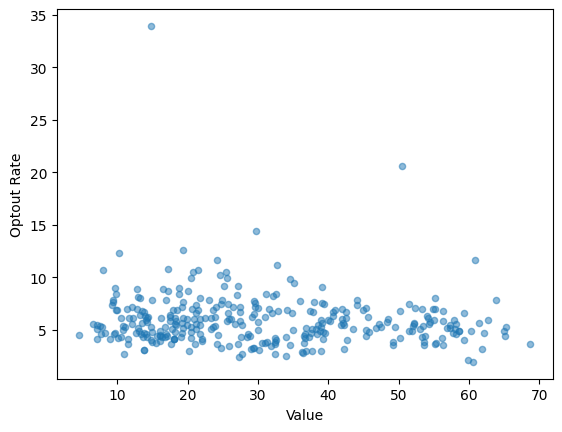
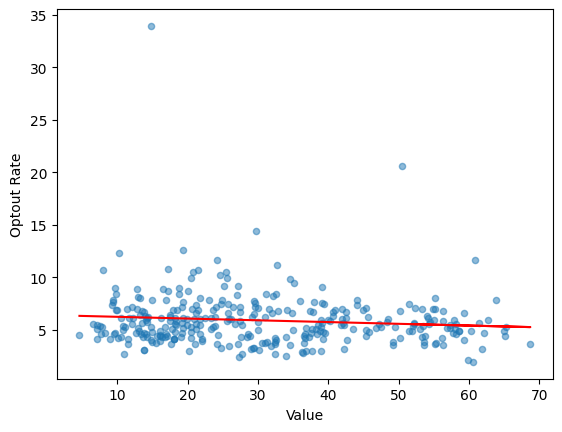
deploy: d4ca1888739ae77129a5330782bb0acb88ee6270

Changed region(s): [[0.1512, 0.7222, 0.7865, 0.7523], [0.7865, 0.7523, 0.9377, 0.7824]]

diff --git a/searchindex.js b/searchindex.js
@@ -1,1 +1,1 @@
-Search.setIndex({docnames:["CONDUCT","CONTRIBUTING","GPOptOut","README","content","intro","markdown"],envversion:{"sphinx.domains.c":2,"sphinx.domains.changeset":1,"sphinx.domains.citation":1,"sphinx.domains.cpp":5,"sphinx.domains.index":1,"sphinx.domains.javascript":2,"sphinx.domains.math":2,"sphinx.domains.python":3,"sphinx.domains.rst":2,"sphinx.domains.std":2,"sphinx.ext.intersphinx":1,"sphinxcontrib.bibtex":9,sphinx:56},filenames:["CONDUCT.md","CONTRIBUTING.md","GPOptOut.ipynb","README.md","content.md","intro.md","markdown.md"],objects:{},objnames:{},objtypes:{},terms:{"0":2,"1":0,"10":2,"2014":6,"4":0,"5":2,"50":2,"500":2,"80":2,"93553":2,"default":6,"do":[0,3,4,6],"function":6,"import":2,"public":0,"short":4,"true":2,A:3,At:6,Being:0,By:1,For:[2,3,6],If:[1,3,6],In:[0,6],It:[3,6],The:[0,1,2,5,6],There:[2,4,6],_build:3,_o:2,abid:1,about:[1,3,6],abus:0,accept:[0,6],account:0,act:0,action:[0,3],adapt:0,add:6,address:0,advanc:0,ag:0,again:6,agre:1,align:0,all:[0,3,6],all_gp_fil:2,allow:6,alpha:2,alreadi:6,also:6,alwai:1,an:[0,1,2,5],ani:[0,1,3,6],anoth:6,anyth:1,appear:0,appli:0,appoint:0,appreci:1,appropri:0,ar:[0,1,4],area:2,articl:1,associ:6,attack:0,attent:0,auditori:6,australia:6,automat:3,axessubplot:2,ban:0,behavior:0,being:6,below:1,best:[0,1],between:2,bib:6,bibliographi:6,bibtex:6,bit:1,block:6,blog:1,bodi:0,book:[5,6],both:[0,6],box:6,branch:[1,3],brian:6,brisban:6,build:6,built:[3,6],call:6,can:[1,2,3,6],ccg:2,cdc:5,cell:6,chang:1,cheshir:2,chose:3,christoph:6,ci:3,circumst:0,cite:6,citi:5,civic:6,clarifi:0,clean:3,clone:[1,3],code:[2,5],cognit:6,combin:2,command:6,comment:0,commit:[0,1],common:6,commonmark:6,commun:0,complaint:0,complex:6,comput:6,concat:2,concept:5,conda:1,confer:6,confidenti:0,consid:0,construct:0,contact:0,content:6,continu:3,contribut:[0,3],contributor:[0,1],cookiecutt:3,coop:6,copi:1,correct:0,cortex:6,could:[0,1],coven:0,cover:4,creat:[0,1,3],credit:1,critic:0,csv:2,current:3,d:[3,6],data:[3,6],de:6,decil:2,deem:0,defin:[0,6],demo:3,depend:6,deploi:3,deploy:3,depriv:2,derogatori:0,detail:[0,1],determin:0,develop:[1,3],differ:[0,6],digit:[2,6],directli:6,directori:3,disabl:0,discov:3,displai:[2,6],doc:[1,6],docstr:1,document:[3,6],doesn:6,driven:1,e:[0,1],easier:1,easili:3,ecosystem:6,edit:[0,3],electron:0,empathi:0,enhanc:1,entir:6,environ:[0,3],ethnic:0,even:1,event:0,everi:1,everyon:0,evid:6,exampl:[0,3,6],excel:3,exclud:2,executablebook:3,exist:[3,6],expand:2,expect:0,experi:0,explain:1,explan:2,explicit:0,express:0,extens:6,f:2,face:0,fair:0,faith:0,fals:2,few:4,file:[1,2,3],first:[2,6],flavor:6,focus:0,folder:2,follow:[0,6],fork:1,formbi:2,foster:0,free:0,from:[0,2],frontier:6,full:2,fulli:3,further:0,g:1,gender:0,gener:2,get:2,gh:3,github:[1,2,3],gitlab:3,given:1,good:0,gp:1,gp_depriv:2,gp_optout:[2,3],gp_output_data:2,gp_profil:2,gracefulli:0,grazuli:3,greatli:1,ha:6,halton:2,harass:0,harm:0,have:0,hdhpk14:6,heer:6,helen:2,help:[1,3],here:[1,6],holdgraf:6,holdgraf_evidence_2014:6,how:[1,2,4,5],html:3,http:3,human:6,id:2,ident:0,ignore_index:2,imageri:0,improv:5,inappropri:0,incid:0,includ:[0,1,3,6],include_ci:3,inclus:0,indic:2,individu:0,inform:[0,3,6],init:6,input:6,insert:6,insid:6,instal:[1,3],instanc:0,insult:0,integr:3,interest:0,intern:6,intro:6,investig:[0,2],io:3,ipynb:6,isnul:2,issu:[0,1],its:[0,1,6],jupyt:[3,5,6],jupytext:6,keep:1,kernel:6,kind:6,knight:6,label:2,languag:[0,6],later:2,leadership:0,left:2,left_on:2,less:6,level:0,like:[3,6],line:6,list:[1,3],littl:1,live:5,liverpool:5,ll:6,local:1,locat:3,look:[1,6],made:3,mai:0,mail:0,main:3,maintain:0,make:[0,1],mani:[4,6],markedli:6,markup:6,max_column:2,max_row:2,md:6,media:0,member:0,merg:2,metadata:6,mi:2,might:[1,5],more:[1,6],moreov:6,most:6,must:6,my:6,mydirectivenam:6,n:6,name:[1,6],narr:2,narrow:1,nation:[0,2],nb:6,ndop_sum_apr_2022_practic:2,need:2,netlifi:3,neurosci:6,nh:2,note:[1,6],notebook:6,number:2,oblig:0,offens:0,offici:[0,1],offlin:0,ohid:2,onc:[3,6],one:[2,6],onli:6,onlin:[0,3],open:[0,1,3,5],oper:1,opt:3,option:3,optout:[1,2],orient:0,other:0,otherwis:0,out:3,outlier:2,outout:3,output:6,over:2,overview:2,page:[3,6],panda:2,parent:2,part:1,particip:0,partner:5,paslei:6,path:6,pattern:6,pd:2,perman:0,permiss:0,person:0,physic:0,pip:3,pleas:[1,3],polici:0,polit:0,posit:0,possibl:1,post:[0,1],power:6,practic:2,pre:6,predict:6,print:[2,6],privat:0,profession:0,profil:2,project:[0,1,3],properli:6,propos:1,publish:[0,3],pull:[1,3],purpos:6,push:[1,3],qcut:2,quick:[2,3],r:3,race:0,ramsai:6,rank:2,rate:2,read_csv:2,readi:1,reason:0,recogn:3,recommend:3,refer:6,regard:0,regardless:0,region:5,regular:6,reject:0,rel:6,relationship:2,releas:1,religion:0,rememb:1,remov:[0,2,3],render:[3,6],repercuss:0,repo:[1,3],report:0,repositori:[2,3],repres:0,represent:0,reproduc:1,request:[1,3],requir:3,resid:5,respect:0,respond:0,rest:6,result:6,review:0,right:0,right_on:2,robert:6,rolenam:6,run:[3,6],s:[0,1,6],same:6,scatter:2,scope:1,score:2,section:4,see:[3,6],sefton:2,send:1,separ:0,serv:6,servic:3,set:[0,1],set_index:2,set_opt:2,setup:1,sexual:0,share:5,should:3,show:0,similar:6,simplest:6,site:5,size:0,slight:6,small:6,sme:5,so:[4,6],social:0,some:6,sourc:3,south:2,southport:2,space:0,span:6,specif:[0,3,6],sphinx:6,st:2,stand:6,step:[1,2],store:6,structur:6,suffix:2,support:5,syntax:6,system:1,t:6,tab:3,tag:1,take:0,team:0,templat:3,temporari:0,temporarili:0,term:1,text:6,thei:[0,1,6],thi:[0,1,2,3,4,5,6],those:6,threaten:0,through:1,time:6,tip:4,todo:2,tool:[5,6],toward:0,troll:0,troubleshoot:1,two:6,txt:3,unaccept:0,understand:5,unwelcom:0,up:[1,2],us:[0,1,2,3,5],valid:6,valu:2,variat:6,veri:6,version:[0,1,3],via:0,view:2,viewpoint:0,virtual:3,virtualenv:1,volunt:1,wa:[2,3],wai:[0,1,4],want:1,warrington:2,we:[0,3],web:1,websit:1,welcom:[0,1,3],wendi:6,what:0,when:[0,3,6],where:2,wherea:6,whether:[1,6],which:[0,6],who:0,whoever:1,wiki:0,wirral:2,within:[0,3],without:0,work:[1,6],workflow:3,would:1,write:[2,4,6],written:6,x:2,xlabel:2,y:2,ylabel:2,you:[1,3,6],your:[1,3]},titles:["Code of Conduct","Contributing","Liverpool GP Opt Out Data","GP Optout","Content in Jupyter Book","Civic Data Coop Digital Commons","Markdown Files"],titleterms:{ad:6,ar:6,attribut:0,book:[3,4],bug:1,build:3,citat:6,civic:5,code:[0,1,6],common:5,conduct:[0,1],content:4,contribut:1,contributor:3,coop:5,credit:3,data:[2,5],digit:5,direct:6,document:1,enforc:0,execut:6,featur:1,feedback:1,file:6,fix:1,get:1,gp:[2,3],host:3,implement:1,jupyt:4,liverpool:2,load:2,markdown:6,myst:6,opt:2,optout:3,our:0,out:2,pledg:0,plot:2,prototyp:5,report:1,respons:0,role:6,scope:0,sourc:2,standard:0,start:1,submit:1,technolog:5,test:5,us:6,usag:3,what:6,write:1,your:6}})
+Search.setIndex({docnames:["CONDUCT","CONTRIBUTING","GPOptOut","README","content","intro","markdown"],envversion:{"sphinx.domains.c":2,"sphinx.domains.changeset":1,"sphinx.domains.citation":1,"sphinx.domains.cpp":5,"sphinx.domains.index":1,"sphinx.domains.javascript":2,"sphinx.domains.math":2,"sphinx.domains.python":3,"sphinx.domains.rst":2,"sphinx.domains.std":2,"sphinx.ext.intersphinx":1,"sphinxcontrib.bibtex":9,sphinx:56},filenames:["CONDUCT.md","CONTRIBUTING.md","GPOptOut.ipynb","README.md","content.md","intro.md","markdown.md"],objects:{},objnames:{},objtypes:{},terms:{"0":2,"1":[0,2],"10":2,"2014":6,"4":0,"5":2,"50":2,"500":2,"6":2,"80":2,"93553":2,"default":6,"do":[0,3,4,6],"function":6,"import":2,"public":0,"short":4,"true":2,A:3,At:6,Being:0,By:1,For:[2,3,6],If:[1,3,6],In:[0,6],It:[3,6],The:[0,1,2,5,6],There:[2,4,6],_build:3,_o:2,abid:1,about:[1,3,6],abus:0,accept:[0,6],account:0,act:0,action:[0,3],adapt:0,add:6,address:0,advanc:0,ag:0,again:6,agre:1,align:0,all:[0,3,6],all_gp_fil:2,allow:6,alpha:2,alreadi:6,also:6,alwai:1,an:[0,1,2,5],ani:[0,1,3,6],anoth:6,anyth:1,appear:0,appli:0,appoint:0,appreci:1,appropri:0,ar:[0,1,4],area:2,articl:1,associ:6,attack:0,attent:0,auditori:6,australia:6,automat:3,ax:2,axessubplot:2,ban:0,behavior:0,being:6,below:1,best:[0,1],between:2,bib:6,bibliographi:6,bibtex:6,bit:1,block:6,blog:1,bodi:0,book:[5,6],both:[0,6],box:6,branch:[1,3],brian:6,brisban:6,build:6,built:[3,6],call:6,can:[1,2,3,6],ccg:2,cdc:5,cell:6,chang:1,cheshir:2,chose:3,christoph:6,ci:3,circumst:0,cite:6,citi:5,civic:6,clarifi:0,clean:3,clone:[1,3],code:[2,5],cognit:6,color:2,combin:2,command:6,comment:0,commit:[0,1],common:6,commonmark:6,commun:0,complaint:0,complex:6,comput:6,concat:2,concept:5,conda:1,confer:6,confidenti:0,consid:0,construct:0,contact:0,content:6,continu:3,contribut:[0,3],contributor:[0,1],cookiecutt:3,coop:6,copi:1,correct:0,cortex:6,could:[0,1],coven:0,cover:4,creat:[0,1,3],credit:1,critic:0,csv:2,current:3,d:[2,3,6],data:[3,6],de:6,decil:2,deem:0,defin:[0,6],demo:3,depend:6,deploi:3,deploy:3,depriv:2,derogatori:0,detail:[0,1],determin:0,develop:[1,3],differ:[0,6],digit:[2,6],directli:6,directori:3,disabl:0,discov:3,displai:[2,6],doc:[1,6],docstr:1,document:[3,6],doesn:6,dreg:2,driven:1,e:[0,1],easier:1,easili:3,ecosystem:6,edit:[0,3],electron:0,empathi:0,enhanc:1,entir:6,environ:[0,3],ethnic:0,even:1,event:0,everi:1,everyon:0,evid:6,exampl:[0,3,6],excel:3,exclud:2,executablebook:3,exist:[3,6],expand:2,expect:0,experi:0,explain:1,explan:2,explicit:0,express:0,extens:6,f:2,face:0,fair:0,faith:0,fals:2,few:4,file:[1,2,3],first:[2,6],flavor:6,focus:0,folder:2,follow:[0,6],fork:1,formbi:2,foster:0,free:0,from:[0,2],frontier:6,full:2,fulli:3,further:0,g:1,gender:0,gener:2,get:2,gh:3,github:[1,2,3],gitlab:3,given:1,good:0,gp:1,gp_depriv:2,gp_optout:[2,3],gp_output_data:2,gp_output_nooutli:2,gp_profil:2,gracefulli:0,grazuli:3,greatli:1,ha:6,halton:2,harass:0,harm:0,have:0,hdhpk14:6,heer:6,helen:2,help:[1,3],here:[1,6],holdgraf:6,holdgraf_evidence_2014:6,how:[1,2,4,5],html:3,http:3,human:6,id:2,ident:0,ignore_index:2,imageri:0,improv:5,inappropri:0,incid:0,includ:[0,1,3,6],include_ci:3,inclus:0,indic:2,individu:0,inform:[0,3,6],init:6,input:6,insert:[2,6],insid:6,instal:[1,3],instanc:0,insult:0,integr:3,interest:0,intern:6,intro:6,investig:[0,2],io:3,ipynb:6,isnul:2,issu:[0,1],its:[0,1,6],jupyt:[3,5,6],jupytext:6,keep:1,kernel:6,kind:6,knight:6,label:2,languag:[0,6],later:2,leadership:0,left:2,left_on:2,legend:2,less:6,level:0,like:[3,6],line:6,list:[1,3],littl:1,live:5,liverpool:5,ll:6,local:1,locat:3,look:[1,6],made:3,mai:0,mail:0,main:3,maintain:0,make:[0,1],mani:[4,6],markedli:6,markup:6,matplotlib:2,max_column:2,max_row:2,md:6,media:0,member:0,merg:2,metadata:6,mi:2,might:[1,5],more:[1,6],moreov:6,most:6,must:6,my:6,mydirectivenam:6,n:6,name:[1,6],narr:2,narrow:1,nation:[0,2],nb:6,ndop_sum_apr_2022_practic:2,need:2,netlifi:3,neurosci:6,nh:2,note:[1,6],notebook:6,np:2,number:2,numpi:2,oblig:0,offens:0,offici:[0,1],offlin:0,ohid:2,onc:[3,6],one:[2,6],onli:6,onlin:[0,3],open:[0,1,3,5],oper:1,opt:3,option:3,optout:[1,2],orient:0,other:0,otherwis:0,out:3,outlier:2,outout:3,output:6,over:2,overview:2,page:[3,6],panda:2,parent:2,part:1,particip:0,partner:5,paslei:6,path:6,pattern:6,pd:2,perman:0,permiss:0,person:0,physic:0,pip:3,pleas:[1,3],plt:2,polici:0,polit:0,poly1d:2,polyfit:2,posit:0,possibl:1,post:[0,1],power:6,practic:2,pre:6,predict:6,print:[2,6],privat:0,profession:0,profil:2,project:[0,1,3],properli:6,propos:1,publish:[0,3],pull:[1,3],purpos:6,push:[1,3],pyplot:2,qcut:2,quick:[2,3],r:3,race:0,ramsai:6,rank:2,rate:2,read_csv:2,readi:1,reason:0,recogn:3,recommend:3,red:2,refer:6,regard:0,regardless:0,region:5,regular:6,reject:0,rel:6,relationship:2,releas:1,religion:0,rememb:1,remov:[0,2,3],render:[3,6],repercuss:0,repo:[1,3],report:0,repositori:[2,3],repres:0,represent:0,reproduc:1,request:[1,3],requir:3,resid:5,respect:0,respond:0,rest:6,result:6,review:0,right:0,right_on:2,robert:6,rolenam:6,run:[3,6],s:[0,1,6],same:6,scatter:2,scope:1,score:2,section:4,see:[3,6],sefton:2,send:1,separ:0,serv:6,servic:3,set:[0,1],set_index:2,set_opt:2,setup:1,sexual:0,share:5,should:3,show:0,similar:6,simplest:6,site:5,size:0,slight:6,small:6,sme:5,so:[4,6],social:0,some:6,sourc:3,south:2,southport:2,space:0,span:6,specif:[0,3,6],sphinx:6,st:2,stand:6,step:[1,2],store:6,structur:6,suffix:2,support:5,syntax:6,system:1,t:6,tab:3,tag:1,take:0,team:0,templat:3,temporari:0,temporarili:0,term:1,text:6,thei:[0,1,6],thi:[0,1,2,3,4,5,6],those:6,threaten:0,through:1,time:6,tip:4,todo:2,tool:[5,6],toward:0,troll:0,troubleshoot:1,two:6,txt:3,unaccept:0,understand:5,unwelcom:0,up:[1,2],us:[0,1,2,3,5],valid:6,valu:2,variat:6,veri:6,version:[0,1,3],via:0,view:2,viewpoint:0,virtual:3,virtualenv:1,volunt:1,wa:[2,3],wai:[0,1,4],want:1,warrington:2,we:[0,3],web:1,websit:1,welcom:[0,1,3],wendi:6,what:0,when:[0,3,6],where:2,wherea:6,whether:[1,6],which:[0,6],who:0,whoever:1,wiki:0,wirral:2,within:[0,3],without:0,work:[1,6],workflow:3,would:1,write:[2,4,6],written:6,x:2,xlabel:2,y:2,ylabel:2,you:[1,3,6],your:[1,3]},titles:["Code of Conduct","Contributing","Liverpool GP Opt Out Data","GP Optout","Content in Jupyter Book","Civic Data Coop Digital Commons","Markdown Files"],titleterms:{ad:6,ar:6,attribut:0,book:[3,4],bug:1,build:3,citat:6,civic:5,code:[0,1,6],common:5,conduct:[0,1],content:4,contribut:1,contributor:3,coop:5,credit:3,data:[2,5],digit:5,direct:6,document:1,enforc:0,execut:6,featur:1,feedback:1,file:6,fix:1,get:1,gp:[2,3],host:3,implement:1,jupyt:4,liverpool:2,load:2,markdown:6,myst:6,opt:2,optout:3,our:0,out:2,pledg:0,plot:2,prototyp:5,report:1,respons:0,role:6,scope:0,sourc:2,standard:0,start:1,submit:1,technolog:5,test:5,us:6,usag:3,what:6,write:1,your:6}})

diff --git a/GPOptOut.html b/GPOptOut.html
@@ -399,7 +399,8 @@ title="Print to PDF"
 <div class="cell_input docutils container">
 <div class="highlight-ipython3 notranslate"><div class="highlight"><pre><span></span># Code to load the data
 import pandas as pd
-
+import numpy as np
+import matplotlib.pyplot as plt
 
 pd.set_option(&#39;display.max_rows&#39;, 500)
 pd.set_option(&#39;display.max_columns&#39;, 500)
@@ -450,26 +451,40 @@ gp_output_data[&#39;Decile rank&#39;] = pd.qcut(gp_output_data[&#39;Value&#39;],
 <p>The data was plotted. There is an outlier of one practice where the opt out rate is over 80%. For later plots this was excluded.</p>
 <div class="cell tag_hide-input docutils container">
 <div class="cell_input docutils container">
-<div class="highlight-ipython3 notranslate"><div class="highlight"><pre><span></span>gp_output_data.plot.scatter(x=&quot;Value&quot;, y=&quot;Optout Rate&quot;, alpha = 0.5)
+<div class="highlight-ipython3 notranslate"><div class="highlight"><pre><span></span>print(&quot;Opt-out Rate by GP Practice and deprivation&quot;)
+gp_output_data.plot.scatter(x=&quot;Value&quot;, y=&quot;Optout Rate&quot;, alpha = 0.5)
 </pre></div>
 </div>
 </div>
 <div class="cell_output docutils container">
+<div class="output stream highlight-myst-ansi notranslate"><div class="highlight"><pre><span></span>Opt-out Rate by GP Practice and deprivation
+</pre></div>
+</div>
 <div class="output text_plain highlight-myst-ansi notranslate"><div class="highlight"><pre><span></span>&lt;AxesSubplot: xlabel=&#39;Value&#39;, ylabel=&#39;Optout Rate&#39;&gt;
 </pre></div>
 </div>
-<img alt="_images/GPOptOut_5_1.png" src="_images/GPOptOut_5_1.png" />
+<img alt="_images/GPOptOut_5_2.png" src="_images/GPOptOut_5_2.png" />
 </div>
 </div>
 <div class="cell tag_hide-input docutils container">
 <div class="cell_input docutils container">
-<div class="highlight-ipython3 notranslate"><div class="highlight"><pre><span></span>print(&quot;Opt-out Rate for deprivation, excluding outlier practices&quot;)
-gp_output_data[gp_output_data[&quot;Optout Rate&quot;] &lt; 50].plot.scatter(x=&quot;Value&quot;, y=&quot;Optout Rate&quot;, alpha = 0.5)
+<div class="highlight-ipython3 notranslate"><div class="highlight"><pre><span></span>print(&quot;Opt-out Rate by GP Practice and deprivation, excluding outlier practices&quot;)
+gp_output_nooutlier = gp_output_data[gp_output_data[&quot;Optout Rate&quot;] &lt; 50]
+
+
+d = np.polyfit(gp_output_nooutlier[&quot;Value&quot;],gp_output_nooutlier[&quot;Optout Rate&quot;],1)
+f = np.poly1d(d)
+
+gp_output_nooutlier.insert(6,&#39;Dreg&#39;,f(gp_output_nooutlier[&#39;Value&#39;]))
+
+ax = gp_output_nooutlier.plot.scatter(x=&quot;Value&quot;, y=&quot;Optout Rate&quot;, alpha = 0.5)
+gp_output_nooutlier.plot(x=&#39;Value&#39;,y=&#39;Dreg&#39;,color=&#39;Red&#39;,legend=False,ax=ax)
+
 </pre></div>
 </div>
 </div>
 <div class="cell_output docutils container">
-<div class="output stream highlight-myst-ansi notranslate"><div class="highlight"><pre><span></span>Opt-out Rate for deprivation, excluding outlier practices
+<div class="output stream highlight-myst-ansi notranslate"><div class="highlight"><pre><span></span>Opt-out Rate by GP Practice and deprivation, excluding outlier practices
 </pre></div>
 </div>
 <div class="output text_plain highlight-myst-ansi notranslate"><div class="highlight"><pre><span></span>&lt;AxesSubplot: xlabel=&#39;Value&#39;, ylabel=&#39;Optout Rate&#39;&gt;
@@ -478,17 +493,21 @@ gp_output_data[gp_output_data[&quot;Optout Rate&quot;] &lt; 50].plot.scatter(x=&
 <img alt="_images/GPOptOut_6_2.png" src="_images/GPOptOut_6_2.png" />
 </div>
 </div>
-<div class="cell docutils container">
+<div class="cell tag_hide-input docutils container">
 <div class="cell_input docutils container">
-<div class="highlight-ipython3 notranslate"><div class="highlight"><pre><span></span>gp_output_data.plot.scatter(x=&quot;Decile rank&quot;, y=&quot;Optout Rate&quot;, alpha = 0.5)
+<div class="highlight-ipython3 notranslate"><div class="highlight"><pre><span></span>print(&quot;Opt-out Rate for deprivation, by decile&quot;)
+gp_output_data.plot.scatter(x=&quot;Decile rank&quot;, y=&quot;Optout Rate&quot;, alpha = 0.5)
 </pre></div>
 </div>
 </div>
 <div class="cell_output docutils container">
+<div class="output stream highlight-myst-ansi notranslate"><div class="highlight"><pre><span></span>Opt-out Rate for deprivation, by decile
+</pre></div>
+</div>
 <div class="output text_plain highlight-myst-ansi notranslate"><div class="highlight"><pre><span></span>&lt;AxesSubplot: xlabel=&#39;Decile rank&#39;, ylabel=&#39;Optout Rate&#39;&gt;
 </pre></div>
 </div>
-<img alt="_images/GPOptOut_7_1.png" src="_images/GPOptOut_7_1.png" />
+<img alt="_images/GPOptOut_7_2.png" src="_images/GPOptOut_7_2.png" />
 </div>
 </div>
 </section>
